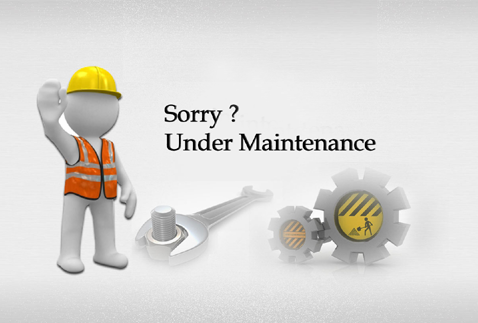
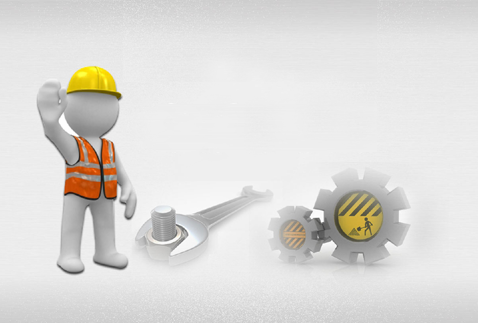
made changes to commit

Changed region(s): [[0.3222, 0.3096, 0.7908, 0.4644]]

diff --git a/under_maintenance.html b/under_maintenance.html
@@ -54,7 +54,7 @@ body{margin:0px; padding:15px 0px 0px 0px; color:#333333; font:13px "Arial",Helv
     <img src="images/cap_icon.png" />
     <br />
     
-    <h3>Oops!<br /> this site is under maintenance please try again later</h3><br /><br /><br />
+    <h3 style="line-height:30px;">Oops!!!<br /> Site is under maintenance. Please try after 8 AM ET on <br />Monday May 12, 2014</h3><br /><br /><br />
     </td>
   </tr>
 </table>
